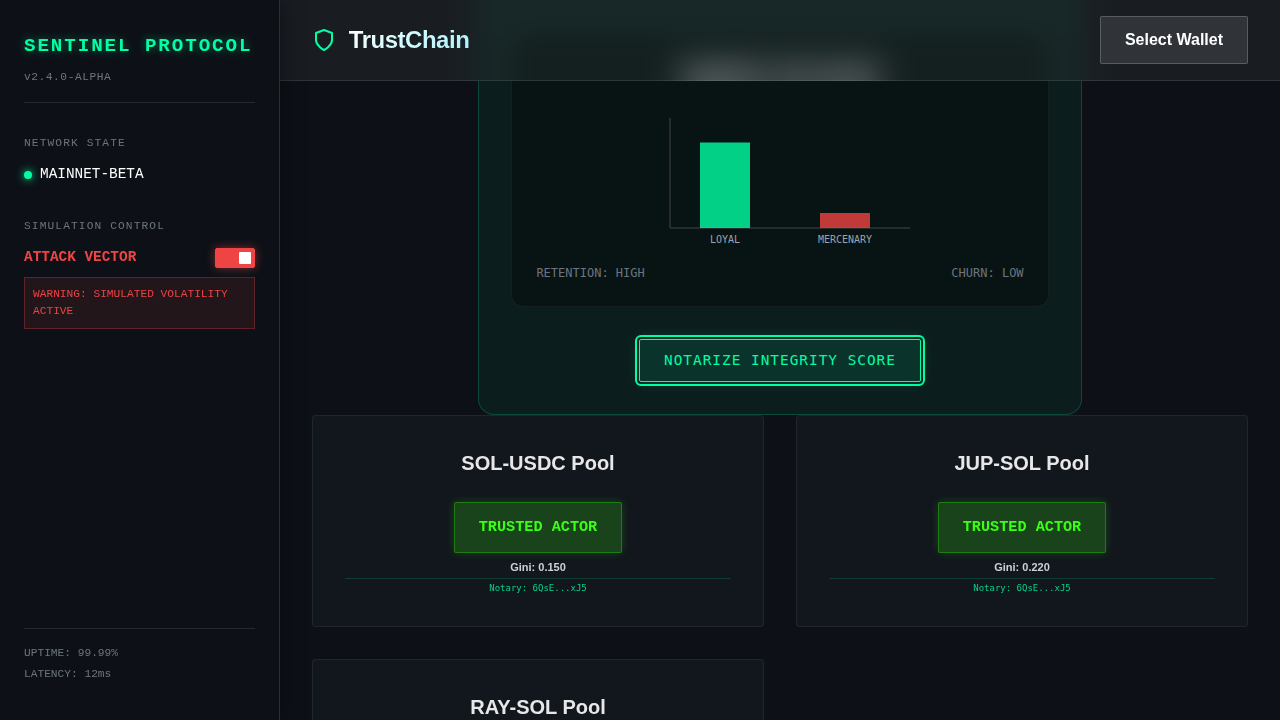
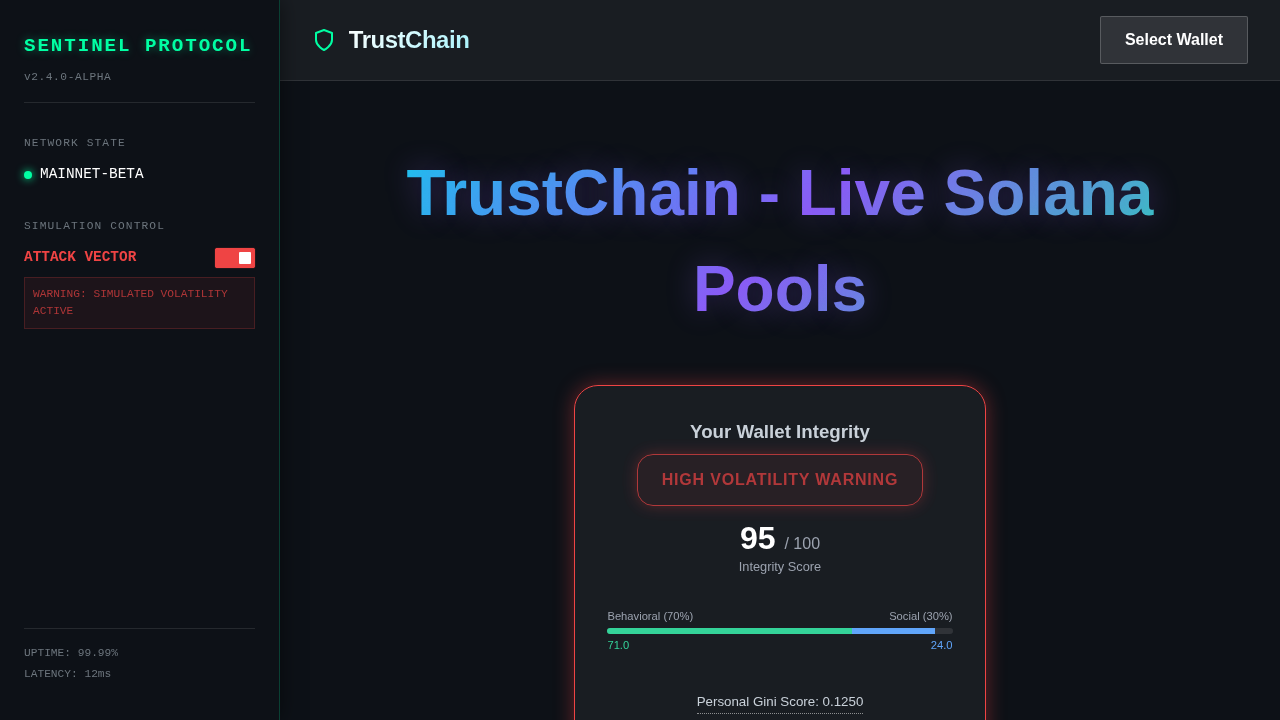
Harden React architecture and CSS layout
- Refactor `setSimulationMode` to use functional updater
- Implement `useRef` for toast timeout management
- Introduce `--sidebar-width` CSS variable
- Clamp scores in InstitutionalInsights.jsx
- Stabilize verify_ui.py with wait_for_selector and mock wallet backdoor

diff --git a/src/App.jsx b/src/App.jsx
@@ -1,6 +1,6 @@
 import { Buffer } from 'buffer';
 window.Buffer = window.Buffer || Buffer;
-import { useState, useEffect } from 'react';
+import { useState, useEffect, useRef } from 'react';
 import { useWallet } from '@solana/wallet-adapter-react';
 import Navbar from './components/Navbar.jsx';
 import Sidebar from './components/Sidebar.jsx';
@@ -13,7 +13,9 @@ import './App.css';
 const API_BASE_URL = import.meta.env.VITE_API_BASE_URL || 'https://trustchain-sovereign-backend.vercel.app';
 
 function WalletIntegrity({ isSimulationMode, showToast }) {
-  const { connected, publicKey } = useWallet();
+  const { connected: walletConnected, publicKey } = useWallet();
+  const isForcedDemo = typeof window !== 'undefined' && window.forceDemoWallet;
+  const connected = walletConnected || isForcedDemo;
 
   const { data, loading, error, refetch } = useTrustChain();
 
@@ -29,7 +31,7 @@ function WalletIntegrity({ isSimulationMode, showToast }) {
   let fairScaleSocial = data?.fairScaleSocial != null ? parseFloat(data.fairScaleSocial) : null;
 
   // --- INSTITUTIONAL DEMO OVERRIDE ---
-  const isDemoWallet = publicKey?.toBase58() === "FBbjMhKtg1iyy83CeHaieqEFqw586i3WYG4zCcnXr7tc";
+  const isDemoWallet = (publicKey?.toBase58() === "FBbjMhKtg1iyy83CeHaieqEFqw586i3WYG4zCcnXr7tc") || isForcedDemo;
 
   if (isDemoWallet) {
     status = "VERIFIED";
@@ -145,11 +147,26 @@ function App() {
   const [loadingPools, setLoadingPools] = useState(true);
   const [isSimulationMode, setSimulationMode] = useState(false);
   const [toastMessage, setToastMessage] = useState(null);
+  const toastTimeoutRef = useRef(null);
 
   const showToast = (msg) => {
+    if (toastTimeoutRef.current) {
+      clearTimeout(toastTimeoutRef.current);
+    }
     setToastMessage(msg);
-    setTimeout(() => setToastMessage(null), 3000);
+    toastTimeoutRef.current = setTimeout(() => {
+      setToastMessage(null);
+      toastTimeoutRef.current = null;
+    }, 3000);
   };
+
+  useEffect(() => {
+    return () => {
+      if (toastTimeoutRef.current) {
+        clearTimeout(toastTimeoutRef.current);
+      }
+    };
+  }, []);
 
   useEffect(() => {
     setLoadingPools(true);
@@ -182,9 +199,9 @@ function App() {
     <div className="App">
       <Sidebar
         isSimulationMode={isSimulationMode}
-        toggleSimulationMode={() => setSimulationMode(!isSimulationMode)}
+        toggleSimulationMode={() => setSimulationMode(prev => !prev)}
       />
-      <div className="main-content" style={{ marginLeft: '280px', width: 'calc(100% - 280px)' }}>
+      <div className="main-content" style={{ marginLeft: 'var(--sidebar-width)', width: 'calc(100% - var(--sidebar-width))' }}>
         <Navbar />
         <div className="hero-content">
           <h1>TrustChain - Live Solana Pools</h1>

diff --git a/src/components/InstitutionalInsights.jsx b/src/components/InstitutionalInsights.jsx
@@ -49,6 +49,9 @@ const InstitutionalInsights = ({ isElite, giniScore, hhiScore, showToast }) => {
     );
   }
 
+  const clampedGini = Math.max(0, Math.min(1, giniScore || 0));
+  const clampedHhi = Math.max(0, Math.min(1, hhiScore || 0));
+
   return (
     <div className="institutional-insights-unlocked" style={{
         marginTop: '2rem',
@@ -78,8 +81,8 @@ const InstitutionalInsights = ({ isElite, giniScore, hhiScore, showToast }) => {
 
                 {/* Bars logic: Loyal (Green) vs Mercenary (Red) */}
                 {/* Use mock or derived values if real data unavailable, ensuring visible bars */}
-                <rect x="70" y={130 - Math.min(100, (1 - (hhiScore || 0)) * 90)} width="50" height={Math.min(100, (1 - (hhiScore || 0)) * 90)} fill="rgba(0, 255, 163, 0.8)" />
-                <rect x="190" y={130 - Math.min(100, ((hhiScore || 0) * 200 + (giniScore || 0) * 50))} width="50" height={Math.min(100, ((hhiScore || 0) * 200 + (giniScore || 0) * 50))} fill="rgba(239, 68, 68, 0.8)" />
+                <rect x="70" y={130 - Math.min(100, (1 - clampedHhi) * 90)} width="50" height={Math.min(100, (1 - clampedHhi) * 90)} fill="rgba(0, 255, 163, 0.8)" />
+                <rect x="190" y={130 - Math.min(100, (clampedHhi * 200 + clampedGini * 50))} width="50" height={Math.min(100, (clampedHhi * 200 + clampedGini * 50))} fill="rgba(239, 68, 68, 0.8)" />
 
                 {/* Labels */}
                 <text x="95" y="145" fill="#9ca3af" fontSize="10" textAnchor="middle" fontFamily="monospace">LOYAL</text>

diff --git a/src/components/Sidebar.css b/src/components/Sidebar.css
@@ -3,7 +3,7 @@
   left: 0;
   top: 0;
   bottom: 0;
-  width: 280px;
+  width: var(--sidebar-width);
   background: #0D1117; /* Obsidian */
   border-right: 1px solid rgba(0, 255, 163, 0.2); /* Neon green accent */
   padding: 2rem 1.5rem;

diff --git a/src/App.css b/src/App.css
@@ -1,4 +1,8 @@
 /* Base Styles */
+:root {
+  --sidebar-width: 280px;
+}
+
 * {
   margin: 0;
   padding: 0;

diff --git a/verify_ui.py b/verify_ui.py
@@ -6,6 +6,8 @@ def verify_ui():
         browser = p.chromium.launch(headless=True)
         page = browser.new_page()
         try:
+            # Set up mock before navigation
+            page.add_init_script("window.forceDemoWallet = true;")
             page.goto("http://localhost:5173")
 
             # Wait for page to load
@@ -22,7 +24,7 @@ def verify_ui():
             # Click Simulation Toggle
             print("Toggling Simulation Mode...")
             page.click(".slider")
-            time.sleep(1) # Wait for animation
+            page.wait_for_selector(".switch input:checked", state="attached")
 
             # Verify RiskDetail changes
             print("Verifying RiskDetail Simulation Mode...")
@@ -34,14 +36,8 @@ def verify_ui():
 
             # Wait for toast
             print("Waiting for Toast...")
-            time.sleep(1) # Give it time to render
-
-            # Check if toast text is present in page content
-            content = page.content()
-            if "Integrity Score committed" in content:
-                print("Toast detected in DOM.")
-            else:
-                print("Toast NOT detected in DOM.")
+            page.wait_for_selector("div:has-text('Integrity Score committed')")
+            print("Toast detected in DOM.")
 
             # Screenshot
             print("Taking Screenshot...")
